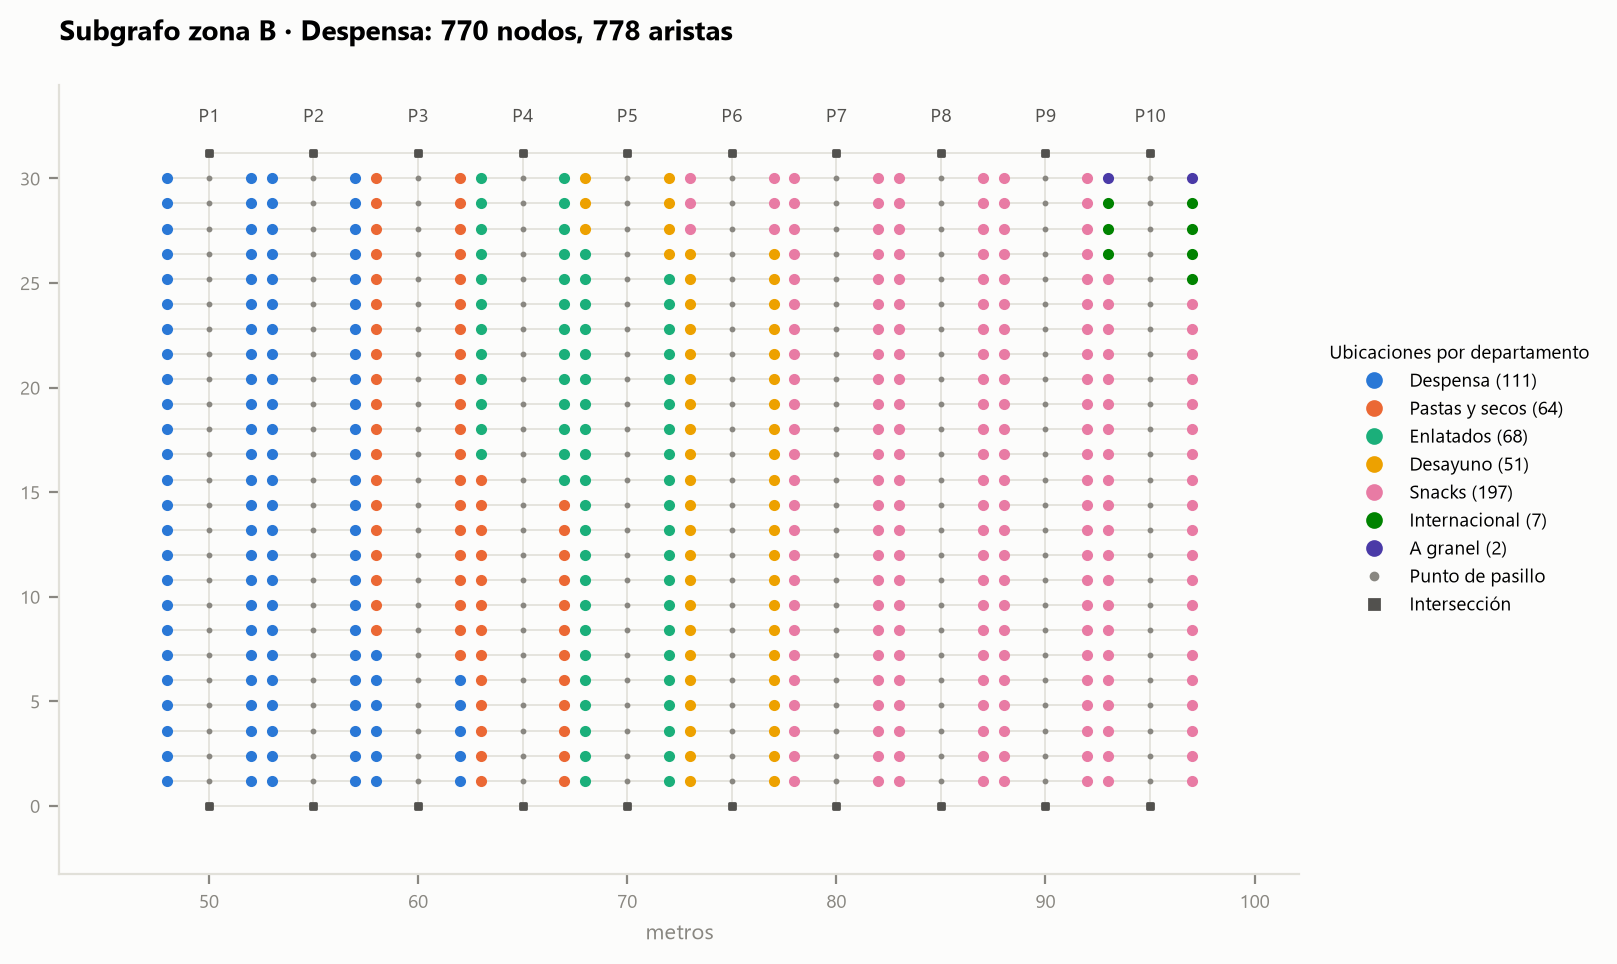
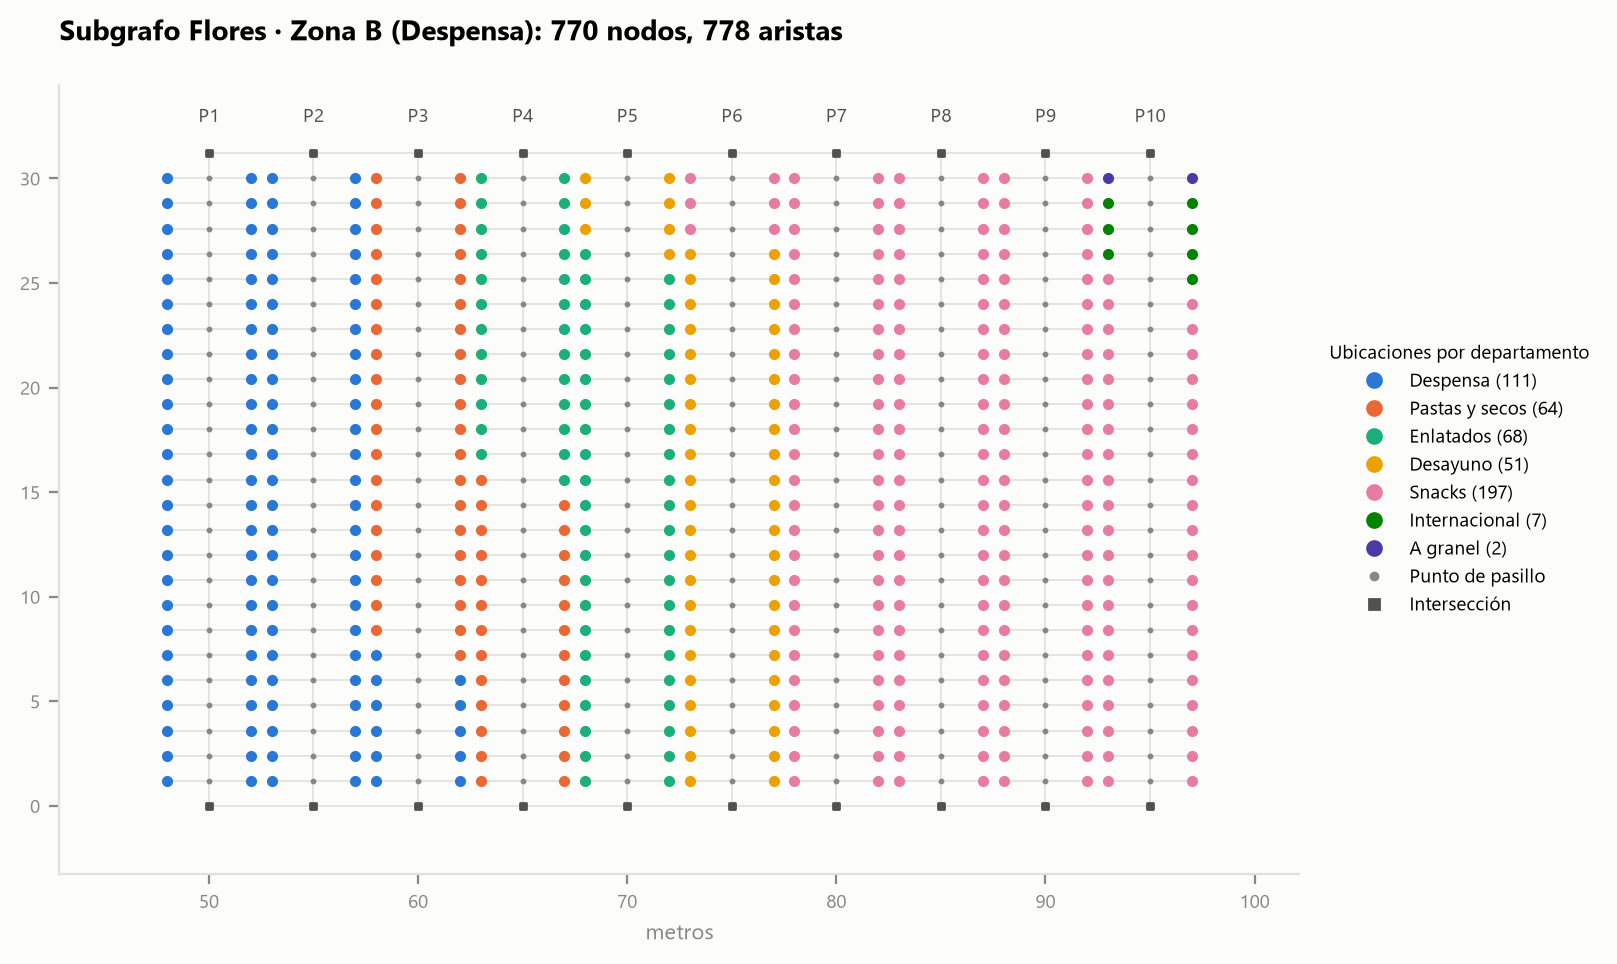
feat: add demand map, order size chart and graph properties
Subgraph titles now name the team member responsible for each zone.

Changed region(s): [[0.1237, 0.0, 0.5257, 0.0622]]

diff --git a/src/visualizar.py b/src/visualizar.py
@@ -4,7 +4,10 @@ Salida en figuras/:
 - grafo_completo.png:      el almacén entero, coloreado por zona.
 - subgrafo_zona_A/B/C.png: cada zona, coloreada por departamento.
 - pedido_ejemplo.png:      un pedido real marcado sobre el almacén.
+- mapa_demanda.png:        cuántas veces se pidió el producto de cada estante.
+- tamano_pedidos.png:      cuántos productos tienen los pedidos reales.
 - estadisticas.csv:        nodos, aristas y productos por zona.
+- propiedades.csv:         propiedades generales del grafo.
 
 Uso:
     python src/visualizar.py
@@ -13,6 +16,7 @@ Uso:
 import matplotlib.pyplot as plt
 import networkx as nx
 import pandas as pd
+from matplotlib.colors import LinearSegmentedColormap, LogNorm
 from matplotlib.lines import Line2D
 
 import config
@@ -26,6 +30,10 @@ TINTA_SECUNDARIA = "#52514e"
 TINTA_TENUE = "#898781"
 LINEA_TENUE = "#e1e0d9"
 FONDO = "#fcfcfb"
+
+# Rampa secuencial de un solo tono (azul) para magnitudes: claro = poco, oscuro = mucho.
+RAMPA_AZUL = LinearSegmentedColormap.from_list(
+    "azul", ["#cde2fb", "#86b6ef", "#3987e5", "#256abf", "#184f95", "#0d366b"])
 
 COLOR_ZONA = dict(zip(config.ZONAS, SERIES))
 ANCHO_FIGURA = 8      # pulgadas; a 200 ppp son 1600 px, el ancho de una página
@@ -145,8 +153,8 @@ def figura_subgrafo_zona(g: nx.Graph, zona: str) -> None:
         x = pos[f"{zona}{pasillo:02d}-00"][0]
         ax.text(x, y_fondo + 1.5, f"P{pasillo}", ha="center", color=TINTA_SECUNDARIA, fontsize=7)
 
-    ax.set_title(f"Subgrafo zona {zona} · {datos['nombre']}: {sub.number_of_nodes()} nodos, "
-                 f"{sub.number_of_edges()} aristas", pad=16)
+    ax.set_title(f"Subgrafo {datos['responsable']} · Zona {zona} ({datos['nombre']}): "
+                 f"{sub.number_of_nodes()} nodos, {sub.number_of_edges()} aristas", pad=16)
     ax.legend(handles=handles + leyenda_estructura()[:2], loc="center left",
               bbox_to_anchor=(1.01, 0.5), frameon=False, fontsize=7,
               title="Ubicaciones por departamento", title_fontsize=7)
@@ -195,6 +203,79 @@ def figura_pedido(g: nx.Graph, pedidos: pd.DataFrame) -> None:
         config.FIGURAS / "pedido_ejemplo.csv", index=False)
 
 
+def figura_mapa_demanda(g: nx.Graph, productos: pd.DataFrame) -> None:
+    """Cada estante coloreado según cuántas veces se pidió su producto."""
+    pos = posiciones(g)
+    demanda = productos.set_index("ubicacion")["pedidos"]
+    estantes = nodos_de_tipo(g, "estante")
+    valores = [max(demanda.get(n, 1), 1) for n in estantes]
+
+    fig, ax = plt.subplots(figsize=(ANCHO_FIGURA, 3.6))
+    dibujar_base(ax, g, pos, color_pasillo=LINEA_TENUE)
+    puntos = ax.scatter([pos[n][0] for n in estantes], [pos[n][1] for n in estantes],
+                        s=4, c=valores, cmap=RAMPA_AZUL, zorder=3,
+                        norm=LogNorm(vmin=min(valores), vmax=max(valores)))
+    barra = fig.colorbar(puntos, ax=ax, orientation="horizontal", fraction=0.05, pad=0.2,
+                         aspect=50)
+    barra.set_label("Veces que se pidió el producto (escala logarítmica)", color=TINTA_SECUNDARIA)
+    barra.ax.tick_params(labelsize=7, colors=TINTA_TENUE)
+    barra.outline.set_visible(False)
+
+    for zona, datos in config.ZONAS.items():
+        xs = [pos[n][0] for n in nodos_de_tipo(g, "estante", zona)]
+        ax.text((min(xs) + max(xs)) / 2, max(p[1] for p in pos.values()) + 2.5,
+                f"Zona {zona} · {datos['nombre']}", ha="center", color=TINTA, fontsize=8)
+    ax.set_title("Mapa de demanda: frecuencia con que se pide cada ubicación", pad=18)
+    preparar_ejes(ax)
+    guardar(fig, "mapa_demanda.png")
+
+
+def figura_tamano_pedidos(pedidos: pd.DataFrame) -> None:
+    """Histograma del número de productos por pedido."""
+    tamanos = pedidos.groupby("order_id").size()
+    conteo = tamanos.value_counts().sort_index()
+    hasta_15 = (tamanos <= 15).mean()
+
+    fig, ax = plt.subplots(figsize=(ANCHO_FIGURA, 3.2))
+    ax.bar(conteo.index, conteo.values, width=0.8, color=SERIES[0])
+    ax.axvline(15.5, color=TINTA_SECUNDARIA, lw=1, ls="--")
+    ax.text(15.8, conteo.max() * 0.9,
+            f"{hasta_15:.1%}".replace(".", ",") + " de los pedidos\ntiene 15 productos o menos",
+            color=TINTA_SECUNDARIA, fontsize=7.5, va="top")
+    ax.set_title(f"Tamaño de los {miles(len(tamanos))} pedidos reales", pad=10)
+    ax.set_xlabel("Productos por pedido", color=TINTA_TENUE)
+    ax.set_ylabel("Número de pedidos", color=TINTA_TENUE)
+    ax.set_xticks(range(2, int(tamanos.max()) + 1, 2))
+    ax.yaxis.grid(True, color=LINEA_TENUE, lw=0.6)
+    ax.set_axisbelow(True)
+    ax.tick_params(colors=TINTA_TENUE, labelsize=7)
+    for lado, spine in ax.spines.items():
+        spine.set_visible(lado == "bottom")
+        spine.set_color(LINEA_TENUE)
+    guardar(fig, "tamano_pedidos.png")
+
+
+def propiedades(g: nx.Graph) -> pd.DataFrame:
+    """Propiedades generales del grafo y distancias desde el depósito."""
+    grados = [d for _, d in g.degree()]
+    distancia = nx.single_source_dijkstra_path_length(g, "DEPOSITO", weight="peso")
+    a_estantes = [distancia[n] for n in nodos_de_tipo(g, "estante")]
+    filas = [
+        ("Vértices", miles(g.number_of_nodes())),
+        ("Aristas", miles(g.number_of_edges())),
+        ("Grado promedio", f"{sum(grados) / len(grados):.2f}"),
+        ("Grado máximo", max(grados)),
+        ("Vértices de grado 1 (estantes y depósito)", miles(grados.count(1))),
+        ("Componentes conexas", nx.number_connected_components(g)),
+        ("Suma de pesos de las aristas (m)", f"{g.size(weight='peso'):,.1f}".replace(",", " ")),
+        ("Distancia media depósito-estante (m)", f"{sum(a_estantes) / len(a_estantes):.1f}"),
+        ("Distancia máxima depósito-estante (m)", f"{max(a_estantes):.1f}"),
+    ]
+    tabla = pd.DataFrame(filas, columns=["propiedad", "valor"])
+    tabla.to_csv(config.FIGURAS / "propiedades.csv", index=False)
+    return tabla
+
+
 def estadisticas(g: nx.Graph, pedidos: pd.DataFrame) -> pd.DataFrame:
     filas = []
     for zona, datos in config.ZONAS.items():
@@ -231,13 +312,18 @@ def estadisticas(g: nx.Graph, pedidos: pd.DataFrame) -> pd.DataFrame:
 def main() -> None:
     g = cargar_grafo()
     pedidos = pd.read_csv(config.DATA_PROCESSED / "pedidos.csv")
+    productos = pd.read_csv(config.DATA_PROCESSED / "productos.csv")
     print("Figuras:")
     figura_grafo_completo(g)
     for zona in config.ZONAS:
         figura_subgrafo_zona(g, zona)
     figura_pedido(g, pedidos)
+    figura_mapa_demanda(g, productos)
+    figura_tamano_pedidos(pedidos)
     print()
     estadisticas(g, pedidos)
+    print()
+    print(propiedades(g).to_string(index=False))
 
 
 if __name__ == "__main__":

diff --git a/src/config.py b/src/config.py
@@ -39,15 +39,18 @@ SEPARACION_PASILLOS = ANCHO_PASILLO + 2 * PROFUNDIDAD_ESTANTE
 ZONAS = {
     "A": {
         "nombre": "Frescos",
+        "responsable": "Palma",
         "departamentos": ["produce", "dairy eggs", "meat seafood", "deli", "bakery", "frozen"],
     },
     "B": {
         "nombre": "Despensa",
+        "responsable": "Flores",
         "departamentos": ["pantry", "dry goods pasta", "canned goods", "breakfast",
                           "snacks", "international", "bulk"],
     },
     "C": {
         "nombre": "Bebidas y hogar",
+        "responsable": "Julca",
         "departamentos": ["beverages", "alcohol", "household", "personal care",
                           "babies", "pets"],
     },

diff --git a/docs/CONTEXTO.md b/docs/CONTEXTO.md
@@ -150,6 +150,9 @@ Están en `figuras/` y se regeneran con `python src/visualizar.py`.
 | `subgrafo_zona_A.png`, `_B`, `_C` | 3. Visualización: un subgrafo por integrante |
 | `pedido_ejemplo.png` y `.csv` | 4. Propuesta: un pedido real sobre el almacén |
 | `estadisticas.csv` | 2. Dataset: nodos y aristas por zona |
+| `mapa_demanda.png` | 3. Visualización: demanda de cada ubicación |
+| `tamano_pedidos.png` | 2. Dataset: productos por pedido |
+| `propiedades.csv` | 2. Dataset: propiedades generales del grafo |
 
 ## 9. Próximos pasos
 
